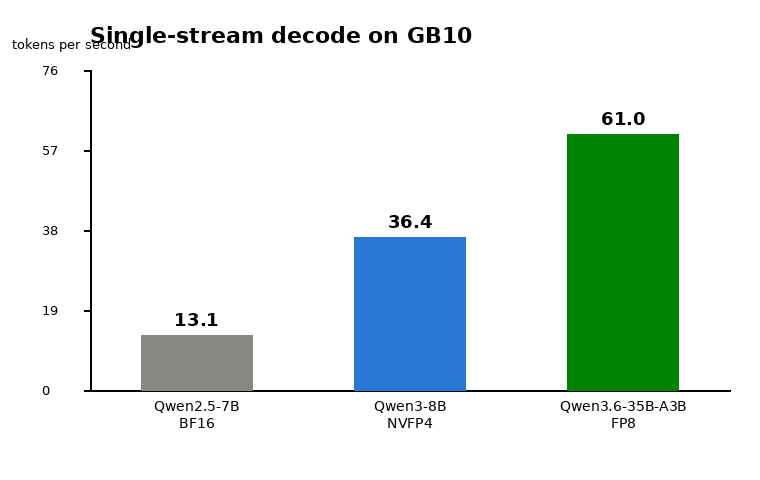
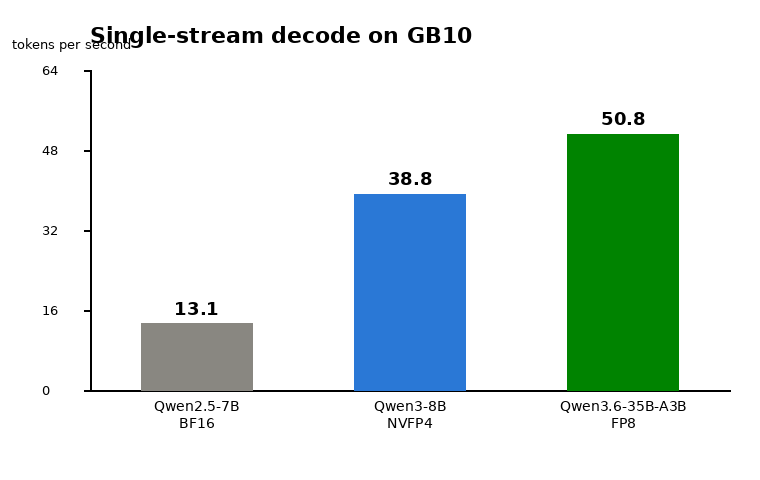
Audit fixes: close the quant-format hole and stop five wrong numbers
A full-project audit found defects that put wrong numbers on screen. The
through-line is the same as the rest of this work: a guard that checks
metadata instead of behaviour, and a table that was updated in one file but
not its sibling.

1. Qwen3-8B and Qwen3-0.6B had no DESIGNED_PRECISION entry, so
   designed_precision() returned None, the BF16-native test failed, and a
   requested FP16 became a raw float16 cast on BF16-trained activations.
   FP16 is pre-checked in the UI, so this was reachable with default
   settings on 2 of the 8 benchmarkable models -- both added by yesterday's
   catalog rebuild, which updated mem_guard but not this table.

2. The quantization guard read only quant_method, never format.
   'compressed-tensors' covers both nvfp4-pack-quantized (coherent) and
   int4 pack-quantized (measured garbage), so the garbage case passed at
   every precision. checkpoint_quant_fingerprint() now returns the pair and
   the allow-set is {(compressed-tensors, nvfp4-pack-quantized)}. Also
   fixed a fail-open: one malformed config.json aborted the directory
   search and reported the checkpoint as unquantized.

3. precision_compatible's NVFP4 test matched the FILENAME -- the same
   defect 80ec971 fixed in llm_inference. A *-w4a16 checkpoint contains no
   "NVFP4", so BF16/FP16/INT8 stayed on offer over packed int4 weights, and
   a precision sweep's "BF16 baseline" row would have been int4.
[…]

diff --git a/webui/helpers/model_info.py b/webui/helpers/model_info.py
@@ -303,7 +303,15 @@ def precision_compatible(model_name: str, precision: str) -> tuple[bool, str]:
     Not Compatible rather than silently switching precision and running.
     """
     name = (model_name or "").upper()
-    prequant_nvfp4 = "NVFP4" in name or "NVF4" in name
+    # Decide from the checkpoint's own config, not its name. A filename test
+    # calls `*-w4a16` (int4) "not NVFP4" and happily offers it at BF16, and
+    # calls a renamed directory NVFP4 when it is not. The name is kept only as
+    # a fallback for a checkpoint that is not on disk to be inspected.
+    _pq_m, _pq_f = checkpoint_quant_fingerprint(model_name)
+    prequant_nvfp4 = (
+        (_pq_f or "").startswith("nvfp4")
+        or (_pq_m is None and ("NVFP4" in name or "NVF4" in name))
+    )
     if prequant_nvfp4 and precision.upper() not in ("FP4", "NVFP4"):
         return False, "pre-quantized NVFP4 checkpoint — only runs at FP4/NVFP4"
 
@@ -315,12 +323,13 @@ def precision_compatible(model_name: str, precision: str) -> tuple[bool, str]:
     # produced '0-1 way/radius housing t[i deる'. A benchmark would have recorded
     # a throughput number from a broken model, which is the one outcome this
     # suite must never produce. Refuse before loading.
-    _qm = checkpoint_quant_method(model_name)
-    if _qm and _qm not in _HF_SUPPORTED_QUANT:
+    _qm, _qf = checkpoint_quant_fingerprint(model_name)
+    if _qm and (_qm, _qf) not in _HF_SUPPORTED_QUANT:
+        _what = f"'{_qm}'" + (f" (format '{_qf}')" if _qf else "")
         return False, (
-            f"checkpoint is quantized with '{_qm}', which transformers "
-            f"{_tf_version()} does not implement — it would silently skip "
-            f"quantization, load as BF16 and generate garbage. This model runs "
+            f"checkpoint is quantized with {_what}, which transformers "
+            f"{_tf_version()} cannot honour correctly on this stack — it loads "
+            f"and reports success, then generates garbage. This model runs "
             f"correctly under vLLM (which is how the sibling projects serve it), "
             f"not through the HF benchmark path."
         )
@@ -347,8 +356,14 @@ def precision_compatible(model_name: str, precision: str) -> tuple[bool, str]:
 # throughput for a broken model. That is the one result this suite must never
 # produce, so anything not on this list is refused before loading. All of them
 # serve correctly under vLLM — which is the point, not a workaround.
+# (quant_method, format) pairs. The FORMAT half is load-bearing: the method
+# `compressed-tensors` covers both the NVFP4 packing that works and the int4
+# packing that does not, so a guard keyed on the method alone waves the garbage
+# case straight through to a benchmark number.
+#   compressed-tensors / nvfp4-pack-quantized  -> coherent (nvidia/Qwen3-8B-NVFP4)
+#   compressed-tensors / pack-quantized (int4) -> GARBAGE, loads "successfully"
 _HF_SUPPORTED_QUANT = {
-    "compressed-tensors",
+    ("compressed-tensors", "nvfp4-pack-quantized"),
 }
 
 
@@ -360,8 +375,14 @@ def _tf_version() -> str:
         return "(unknown)"
 
 
-def checkpoint_quant_method(model_name: str) -> str | None:
-    """`quant_method` declared by a local checkpoint's config.json, or None.
+def checkpoint_quant_fingerprint(model_name: str) -> tuple[str | None, str | None]:
+    """`(quant_method, format)` declared by a local checkpoint's config.json.
+
+    Both halves are needed to decide whether this HF stack can run a checkpoint.
+    `compressed-tensors` is the method for BOTH the NVFP4 packing that works and
+    the int4 `pack-quantized` packing that loads successfully and then emits
+    garbage, so the format is what separates them. Returns (None, None) when the
+    checkpoint is not on disk or declares no quantization.
 
     Reads the file directly rather than via AutoConfig: this runs inside the
     pre-load guard, so it must be cheap and must not import the model's remote
@@ -369,30 +390,44 @@ def checkpoint_quant_method(model_name: str) -> str | None:
     """
     import json
     from pathlib import Path
+
+    def _read(cfg_path) -> tuple[str | None, str | None] | None:
+        """(method, format) for one config.json, or None if it is unreadable."""
+        try:
+            c = json.loads(cfg_path.read_text())
+        except Exception:
+            return None
+        q = (c.get("quantization_config")
+             or (c.get("text_config") or {}).get("quantization_config"))
+        if not q:
+            return (None, None)
+        return (q.get("quant_method"), q.get("format"))
+
     # Accept a direct checkpoint path as well as an HF id: callers (and test
     # harnesses) legitimately hold either, and silently returning None for a path
     # routed a compressed-tensors checkpoint down the bitsandbytes branch.
     _direct = Path(model_name or "")
     if _direct.is_dir() and (_direct / "config.json").exists():
-        try:
-            c = json.loads((_direct / "config.json").read_text())
-        except Exception:
-            return None
-        q = c.get("quantization_config") or (c.get("text_config") or {}).get("quantization_config")
-        return (q or {}).get("quant_method")
+        return _read(_direct / "config.json") or (None, None)
+
     slug = (model_name or "").replace("/", "--")
     base = Path.home() / "gb10-demo" / "models"
-    for sub in ("llm-models", "vlm-models", "narrator-models"):
+    for sub in ("llm-models", "vlm-models", "narrator-models", "cnn-models"):
         cfg = base / sub / slug / "config.json"
         if not cfg.exists():
             continue
-        try:
-            c = json.loads(cfg.read_text())
-        except Exception:
-            return None
-        q = c.get("quantization_config") or (c.get("text_config") or {}).get("quantization_config")
-        return (q or {}).get("quant_method")
-    return None
+        got = _read(cfg)
+        # One malformed config must not abort the search and report the
+        # checkpoint as unquantized — that fails OPEN, which is the direction
+        # this guard exists to prevent.
+        if got is not None:
+            return got
+    return (None, None)
+
+
+def checkpoint_quant_method(model_name: str) -> str | None:
+    """`quant_method` alone, for callers that only route on the method."""
+    return checkpoint_quant_fingerprint(model_name)[0]
 
 
 def lookup_model_info(name: str) -> dict | None:
@@ -441,6 +476,14 @@ MODEL_INFO['poolside/Laguna-S-2.1-NVFP4'] = {
 }
 
 for _k, _v in {
+    # Plain BF16 additions from the 2026-11-05 catalog rebuild. These MUST be
+    # here: designed_precision() is what tells llm_inference a checkpoint is
+    # BF16-native, and without an entry a requested FP16 becomes a raw float16
+    # cast on BF16-trained activations -> inf/NaN -> a plausible-looking
+    # throughput number from a broken model. FP16 is pre-checked in the UI, so
+    # the gap was reachable with default settings.
+    'Qwen/Qwen3-0.6B': ('BF16', 'released in BF16; small enough to run any precision well'),
+    'Qwen/Qwen3-8B':   ('BF16', 'released in BF16; the BF16 half of the NVFP4-vs-BF16 pair'),
     'nvidia/Gemma-4-26B-A4B-NVFP4': ('NVFP4', 'pre-quantized NVFP4 checkpoint; loads only at FP4/NVFP4'),
     'Qwen/Qwen3.8-27B-FP8': ('FP8', 'released as FP8; block-FP8 weights'),
     'nvidia/NVIDIA-Nemotron-3.5-Lightning-30B-A3B-NVFP4': ('NVFP4', "pre-quantized NVFP4; NVIDIA's DGX Spark build"),

diff --git a/webui/streamlit_app.py b/webui/streamlit_app.py
@@ -40,7 +40,7 @@ from helpers.tco_engine import (
 from helpers.model_info import lookup_model_info, designed_precision, precision_compatible
 from helpers.on_device_ai import narrator_available, make_narrator, NARRATOR_MODEL, NARRATOR_PRECISION
 from helpers.cloud_pricing import api_token_costs, api_comparison_band, STANCE_LABEL
-from helpers.vllm_reference import load_vllm_reference, has_real_fp4
+from helpers.vllm_reference import load_vllm_reference, has_real_fp4, capture_for_model
 
 # Official Dell Technologies logo, embedded as a data URI (Streamlit doesn't serve
 # arbitrary static files). The asset is the dark/reverse-on-light lockup, so the
@@ -1174,8 +1174,13 @@ with tab_results:
     _serving_caps = {k: c for k, c in _caps.items() if c.get("per_n")}
 
     if rdata["scenario"] == "Multi-User Concurrency":
-        if _serving_caps:
-            _sk, _scap = next(iter(_serving_caps.items()))
+        # Follow the model that was actually benchmarked. This used to take
+        # next(iter(...)) -- the first capture in file order -- so every run
+        # showed the July Qwen2.5-7B BF16 table no matter what was selected.
+        _sk, _scap = capture_for_model(rdata.get("model", ""))
+        if _scap and not _scap.get("per_n"):
+            _sk, _scap = None, None
+        if _scap:
             _rows = _scap["per_n"]
             _top = _rows[-1]
             st.markdown("#### 🟢 Real vLLM Batched-Serving Reference")
@@ -1208,13 +1213,15 @@ with tab_results:
                 "not a serving measurement**."
             )
         else:
+            _have = ", ".join(c.get("model", "?") for c in _serving_caps.values()) or "none"
             st.warning(
-                "**No vLLM serving reference captured yet** — the concurrency figures below are a "
-                "*memory-capacity estimate*, not a real serving measurement (real serving batches "
-                "many users through ONE model copy). To replace them with real numbers, bring up "
-                "the vLLM container and run:\n\n"
-                "```\npython scripts/capture_vllm_reference.py --key qwen2.5-7b --precision FP8 "
-                "--hf-eager-tps <demo_tok/s>\n```"
+                f"**No vLLM serving capture for `{rdata.get('model','this model')}`** — so the "
+                f"concurrency figures below are a *memory-capacity estimate*, not a real serving "
+                f"measurement (real serving batches many users through ONE model copy). Captures "
+                f"that do exist: **{_have}**. Another model's measurement is deliberately not "
+                f"substituted here. To add this one, bring up the vLLM container and run:\n\n"
+                f"```\npython scripts/capture_vllm_reference.py --key <key> --precision <prec> "
+                f"--hf-eager-tps <demo_tok/s>\n```"
             )
 
     # On-device talking points — generated by the benchmarked model itself, on the Dell Pro Max GB10
@@ -1941,8 +1948,12 @@ with tab_results:
     # 7a. PRODUCTION DELTA — HF eager (what the demo measures) vs real vLLM
     # -----------------------------------------------------------------------
     _delta_caps = {k: c for k, c in _caps.items() if c.get("hf_eager_tps") and c.get("per_n")}
-    if _delta_caps:
-        _dk, _dc = next(iter(_delta_caps.items()))
+    # Same fix as the serving panel: show the delta for the model benchmarked,
+    # not for whichever capture sorts first.
+    _dk, _dc = capture_for_model(rdata.get("model", ""))
+    if _dc and not (_dc.get("hf_eager_tps") and _dc.get("per_n")):
+        _dk, _dc = None, None
+    if _dc:
         _hf = _dc["hf_eager_tps"]
         _pn = _dc["per_n"]
         _vllm1 = next((r["per_user_tps"] for r in _pn if r["n_users"] == 1), _pn[0]["per_user_tps"])

diff --git a/webui/helpers/vllm_reference.py b/webui/helpers/vllm_reference.py
@@ -2,7 +2,7 @@
 Loader for the captured vLLM production-reference data.
 
 The demo NEVER runs vLLM in-process (one heavy GPU workload at a time, and vLLM
-lives only in the qwen-hermes Docker container). Instead, an operator runs
+runs in a separate container). Instead, an operator runs
 ``scripts/capture_vllm_reference.py`` offline against the running container, which
 writes ``webui/data/vllm_reference.json``. The Streamlit app only *reads* that file
 here — so a missing file simply means "no real serving data captured yet" and the UI
@@ -107,6 +107,8 @@ def measured_tps(catalog_name: str) -> tuple[float | None, str]:
     row1 = next((r for r in rows if r.get("n_users") == 1), None)
     if not row1:
         return None, f"capture '{key}' has no n=1 level"
+    if not row1.get("per_user_tps"):
+        return None, f"capture '{key}' n=1 row has no per_user_tps"
     ts = (cap.get("timestamp") or "")[:10]
     return float(row1["per_user_tps"]), (
         f"measured on this box via vLLM — {cap.get('precision','?')}, "
@@ -165,3 +167,40 @@ def anchored_models() -> list[str]:
     except Exception:
         pass
     return out
+
+
+def capture_for_model(model_ref: str) -> tuple[str | None, dict | None]:
+    """``(capture_key, capture)`` for the model the user actually benchmarked.
+
+    Accepts an HF repo id (what the Benchmark tab holds) or a MODEL_CATALOG key
+    (what the TCO tab holds), and resolves HF id -> catalog key through
+    ``tco_engine.BENCHMARKABLE`` before the capture map.
+
+    Exists because the serving-reference and production-delta panels used
+    ``next(iter(captures))``, i.e. whichever capture happened to be first in the
+    file. Benchmarking the NVFP4 8B then showed a July BF16 Qwen2.5-7B serving
+    table, and the two November captures could never be reached at all.
+    Returns (None, None) when this model has no capture — the caller must then
+    say so rather than substitute another model's measurement.
+    """
+    if not model_ref:
+        return None, None
+    caps = (load_vllm_reference() or {}).get("captures") or {}
+
+    cands = [model_ref]
+    try:
+        from .tco_engine import BENCHMARKABLE
+        mapped = BENCHMARKABLE.get(model_ref)
+        if mapped:
+            cands.append(mapped)
+    except Exception:
+        pass
+
+    for c in cands:
+        key = _CATALOG_TO_CAPTURE.get(c)
+        if key and key in caps:
+            return key, caps[key]
+    # last resort: the model_ref IS a capture key
+    if model_ref in caps:
+        return model_ref, caps[model_ref]
+    return None, None

diff --git a/scripts/make_chart_fixture.py b/scripts/make_chart_fixture.py
@@ -14,11 +14,41 @@ from pathlib import Path
 from PIL import Image, ImageDraw, ImageFont
 
 # Real measurements from this box, so the fixture doubles as a talking point.
-DATA = {
-    "Qwen2.5-7B BF16": 13.1,
-    "Qwen3-8B NVFP4": 36.4,
-    "Qwen3.6-35B-A3B FP8": 61.0,
+# READ from webui/data/vllm_reference.json rather than hardcoded: the figures
+# were transcribed once and then drifted (the chart said 36.4 and 61.0 while the
+# reference file said 38.8 and 50.8), so a customer-facing chart captioned
+# "measured on GB10" disagreed with the number the TCO tab used for the same
+# model in the same session. Deriving it means that cannot recur.
+_REF = Path(__file__).resolve().parent.parent / "webui" / "data" / "vllm_reference.json"
+_LABELS = {                      # capture key -> short bar label
+    "qwen2.5-7b":          "Qwen2.5-7B BF16",
+    "qwen3-8b-nvfp4":      "Qwen3-8B NVFP4",
+    "qwen3.6-35b-a3b-fp8": "Qwen3.6-35B-A3B FP8",
 }
+
+
+def _single_stream(cap: dict) -> float | None:
+    """n=1 per-user tok/s from a capture, or None."""
+    for r in cap.get("per_n") or []:
+        if r.get("n_users") == 1 and r.get("per_user_tps"):
+            return float(r["per_user_tps"])
+    return None
+
+
+_caps = (json.loads(_REF.read_text()).get("captures") or {})
+DATA = {}
+for _k, _label in _LABELS.items():
+    _v = _single_stream(_caps.get(_k) or {})
+    if _v is not None:
+        DATA[_label] = round(_v, 1)
+if len(DATA) < 2:
+    # Fail loudly. Drawing a chart captioned as a measurement from stale or
+    # missing data is the failure this script exists to prevent.
+    raise SystemExit(
+        f"refusing to draw: only {len(DATA)} of {len(_LABELS)} captures have an "
+        f"n=1 level in {_REF}. Run scripts/recapture_reference.sh first."
+    )
+print("fixture values from vllm_reference.json:", DATA)
 TITLE = "Single-stream decode on GB10"
 UNITS = "tokens per second"
 COLORS = [(137, 135, 129), (42, 120, 214), (0, 131, 0)]

diff --git a/webui/helpers/mem_guard.py b/webui/helpers/mem_guard.py
@@ -30,7 +30,6 @@ _MODEL_PARAMS_B: list[tuple[str, float]] = [
     ("nemotron-3-super-120b",       120.0),
     ("nemotron-3.5-super-vl-120b",  120.0),
     ("nemotron-3.5-bolt-74b",        74.0),
-    ("nemotron-3.5-bolt-e4b",         4.0),
     ("nemotron-3.5-lightning-30b",   30.0),
     ("gemma-4-26b",                  26.0),
     ("qwen3.6-35b-a3b",              35.0),
@@ -47,12 +46,9 @@ _MODEL_PARAMS_B: list[tuple[str, float]] = [
     ("tinyllama",      1.1),
     ("phi-4",         14.0),
     ("phi-3",          3.8),
-    ("qwen3-8b",       8.0),
-    ("qwen3.5-35b-a3b", 35.0),  # MoE: 35B total weights load (3B active)
     ("qwen3-30b-a3b",  30.0),   # MoE: 30B total weights load (3B active)
     ("qwen2.5-72b",   72.0),
     ("qwen2.5-70b",   70.0),
-    ("qwen2.5-32b",   32.0),
     ("qwen2.5-14b",   14.0),
     ("qwen2.5-7b",     7.0),
     ("llama-3.3-70b", 70.0),
@@ -87,6 +83,12 @@ _MEASURED_GB: list[tuple[str, float]] = [
     # waved through a load 9 GB larger than it believed.
     ("nemotron-3.5-super-vl-120b",   75.1),   # measured 2026-11-05
     ("nemotron-3.5-bolt-74b",        24.1),   # measured; flat FP4 said 37.0 (over-stated)
+    # Also UNDER-stated, found 2026-11-06. Same mixed-precision release pattern:
+    # only part of the checkpoint is NVFP4, so the flat 0.5 byte/param estimate
+    # comes in below the real file. Both are refused by precision_compatible
+    # today (ModelOpt), but the guard must not believe them smaller than they are.
+    ("nemotron-3.5-lightning-30b",   21.6),   # measured; flat FP4 said 16.5
+    ("gemma-4-26b",                  18.8),   # measured; flat FP4 said 14.3
 ]
 
 

diff --git a/webui/helpers/llm_inference.py b/webui/helpers/llm_inference.py
@@ -141,11 +141,25 @@ def _estimate_params_b(model_name: str) -> float:
     purpose — Mixtral-8x7B activates ~12.9B params per token (compute) but loads
     all 46.7B (memory). Keep them separate; do not "reconcile" the values.
     """
+    import re
     n = model_name.lower()
+
+    # Modern MoE names encode their own ACTIVE parameter count: 30B-A3B,
+    # 120B-A12B, 26B-A4B, 235B-A22B. Read it rather than keeping a hand-list in
+    # step. This must run before the generic suffixes below, which would match
+    # the TOTAL size ("30b" in "30b-a3b") and overstate compute by ~10x.
+    m = re.search(r"[-_]a(\d+(?:\.\d+)?)b", n)
+    if m:
+        return float(m.group(1))
+
     for key, val in [
         ("mixtral", 12.9), ("phi-4", 14.0), ("phi-3", 3.8),
+        # 2026 catalog, explicit where the name does not carry "aNb":
+        ("laguna", 8.0),           # 118B total / 8B active
         ("1.1b", 1.1), ("1.5b", 1.5), ("3.8b", 3.8),
-        ("72b", 72.0), ("70b", 70.0), ("32b", 32.0),
+        ("0.6b", 0.6), ("0.5b", 0.5),
+        ("120b", 12.0), ("72b", 72.0), ("70b", 70.0),
+        ("32b", 32.0), ("27b", 27.0), ("26b", 4.0),
         ("14b", 14.0), ("13b", 13.0), ("8b", 8.0),
         ("7b", 7.0), ("3b", 3.0), ("1b", 1.0),
     ]:
